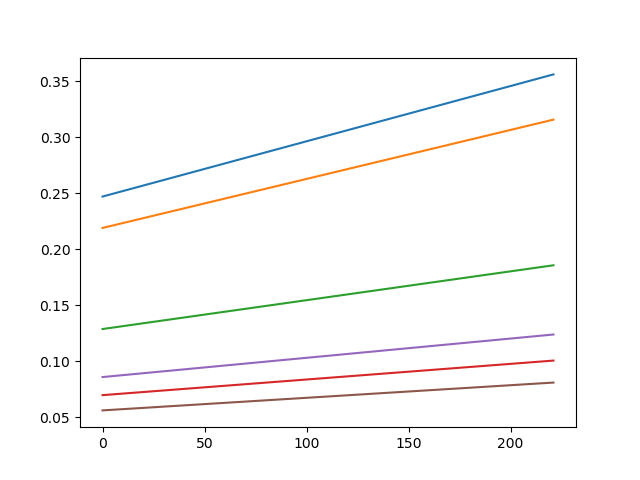
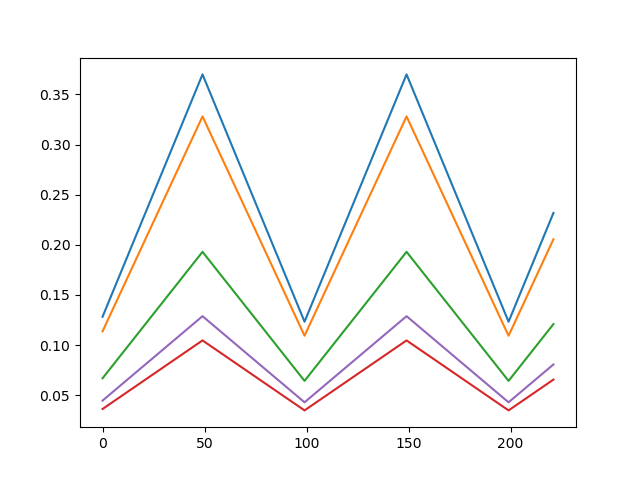
feat: update LR schedules, remove fixed seed

diff --git a/wrapper/benchmark.py b/wrapper/benchmark.py
@@ -132,14 +132,14 @@ class Benchmark:
             lr_lambda = lambda epoch: 1.0 ** epoch
             return optim.lr_scheduler.LambdaLR(optimizer, lr_lambda=lr_lambda)
         elif schedule == 'LambdaLR':
-            lr_lambda = lambda epoch: 0.95 ** epoch
+            lr_lambda = lambda epoch: 1.01 ** epoch * 0.1
             return optim.lr_scheduler.LambdaLR(optimizer, lr_lambda=lr_lambda)
         elif schedule == 'StepLR':
-            return optim.lr_scheduler.StepLR(optimizer, step_size=30, gamma=0.1)
+            return optim.lr_scheduler.StepLR(optimizer, step_size=25, gamma=0.5)
         elif schedule == 'ExponentialLR':
-            return optim.lr_scheduler.ExponentialLR(optimizer, gamma=0.1)
+            return optim.lr_scheduler.ExponentialLR(optimizer, gamma=0.99)
         elif schedule == 'CyclicLR':
-            return optim.lr_scheduler.CyclicLR(optimizer, base_lr=base_lr, max_lr=base_lr * 5)
+            return optim.lr_scheduler.CyclicLR(optimizer, base_lr=base_lr * 0.5, max_lr=base_lr * 1.5, step_size_up=50)
 
     # validate runs the val and test data and returns the loss and acc
     def validate(self, net, loader, test, hyperparameters):
@@ -187,7 +187,7 @@ class Benchmark:
     # train runs the train iterator and returns the running loss, acc and trained modelcd
     def train(self, trainloader, iterations, hyperparameters):
         # set seed again, so that each model will have the same init weights
-        torch.manual_seed(self.seed)
+        # torch.manual_seed(self.seed)
 
         if not hasattr(sys.modules[__name__], self.model):
             print('====> Model doesn\'t exist!')
